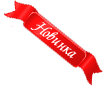
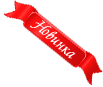
Fix stickers css

Changed region(s): [[0.2913, 0.2299, 0.7573, 0.6897]]

diff --git a/frontend/static/css/main.css b/frontend/static/css/main.css
@@ -261,19 +261,18 @@ button, button:hover, button:focus, button:active {
 i.pos-1 {
     width: 100px;
     height: 100px;
-    top: -10px;
+    top: 130px;
     right: inherit;
-    left: -13px;
+    left: -20px;
     background: url(../img/new-st-1.png) 0 0 no-repeat;
 }
 
 i.pos-2 {
     width: 103px;
     height: 87px;
-    top: -10px;
-    right: inherit;
-    left: -13px;
-    background: url(../img/new-st-1.png) 0 0 no-repeat;
+    top: 130px;
+    right: -20px;
+    background: url(../img/new-st-2.png) 0 0 no-repeat;
 }
 
 i.pos-3 {
@@ -282,7 +281,7 @@ i.pos-3 {
     top: -10px;
     right: inherit;
     left: -13px;
-    background: url(../img/new-st-1.png) 0 0 no-repeat;
+    background: url(../img/new-st-3.png) 0 0 no-repeat;
 }
 
 i.pos-4 {
@@ -298,7 +297,7 @@ i.sticker-pos-1 {
     z-index: 99;
     width: 100px;
     height: 100px;
-    top: -10px;
+    top: 378px;
     left: 3px;
     background: url(../img/new-st-1.png) 0 0 no-repeat;
 }
@@ -308,9 +307,9 @@ i.sticker-pos-2 {
     z-index: 99;
     width: 103px;
     height: 87px;
-    top: -10px;
-    left: 373px;
-    background: url(../img/new-st-4.png) 0 0 no-repeat;
+    top: 378px;
+    left: 378px;
+    background: url(../img/new-st-2.png) 0 0 no-repeat;
 }
 
 i.sticker-pos-3 {
@@ -319,8 +318,8 @@ i.sticker-pos-3 {
     width: 103px;
     height: 87px;
     top: -10px;
-    left: 373px;
-    background: url(../img/new-st-4.png) 0 0 no-repeat;
+    left: 7px;
+    background: url(../img/new-st-3.png) 0 0 no-repeat;
 }
 
 i.sticker-pos-4 {

diff --git a/frontend/static/css/media.css b/frontend/static/css/media.css
@@ -6,6 +6,11 @@
 }
 
 @media (max-width: 992px) {
+    i.sticker-pos-2 {
+        left: 258px;
+        top: 258px;
+    }
+
     i.prod {
         left: 300px;
         top: -40px;
@@ -352,6 +357,12 @@
         right: 7px;
     }
 
+    i.sticker-pos-2 {
+        left: inherit;
+        right: 3px;
+        top: 610px;
+    }
+
     i.prod {
         right: -1px;
         top: -40px;
@@ -436,7 +447,21 @@
     }
 }
 
+@media (max-width: 767px) {
+    i.sticker-pos-2 {
+        left: inherit;
+        right: 3px;
+        top: 430px;
+    }
+}
+
 @media (max-width: 576px) {
+    i.sticker-pos-2 {
+        left: inherit;
+        right: 3px;
+        top: 307px;
+    }
+
     .slider-related .swiper-container {
         height: 300px;
     }
@@ -596,7 +621,20 @@
 
 }
 
+/*@media (max-width: 575px) {*/
+/*    i.sticker-pos-2 {*/
+/*        right: 3px;*/
+/*        top: calc(34% - 80px);*/
+/*    }*/
+/*}*/
+
 @media (max-width: 375px) {
+    i.sticker-pos-2 {
+        left: inherit;
+        right: 3px;
+        top: 258px;
+    }
+
     .slider-related .swiper-container {
         height: 400px;
     }
@@ -608,6 +646,12 @@
 }
 
 @media (max-width: 320px) {
+    i.sticker-pos-2 {
+        left: inherit;
+        right: 3px;
+        top: 204px;
+    }
+
     .slider .swiper-slide img {
         width: 95%;
     }
